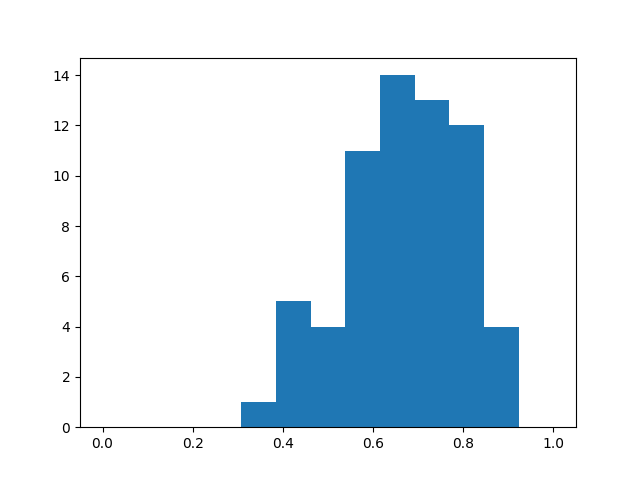
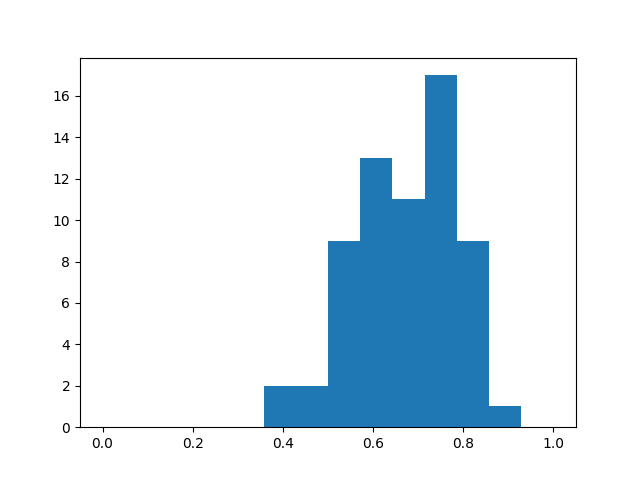
histograms for report

diff --git a/mnist/correlation/correlation.py b/mnist/correlation/correlation.py
@@ -64,11 +64,19 @@ def plot_and_save(corr, name):
 
 untrain = Corrcoef(train0, untrained)
 plot_and_save(untrain, 'untrain')
-del untrain
 train = Corrcoef(train0, train1)
 plot_and_save(train, 'train')
-del train
-untrain_rev = Corrcoef(untrained, train0)
+untrain_rev = Corrcoef(untrained, train1)
 plot_and_save(untrain_rev, 'untrain_rev')
-del untrain_rev
 
+for i in range(4):
+  layer = ['h_conv1', 'h_conv2', 'h_fc1', 'y_conv'][i]
+  unt = absmax(getattr(untrain_rev, layer))
+  trd = absmax(getattr(train, layer))
+  plt.hist(trd, bins='auto', range=(0, 1), color='#0000FF80', density=True)
+  plt.hist(unt, bins='auto', range=(0, 1), color='#FF000080', density=True)
+  plt.xlabel('correlation r')
+  plt.ylabel('proportion of neurons/Δr')
+  plt.title(['conv1', 'conv2', 'fc1', 'fc2'][i])
+  plt.savefig('paper_'+layer+'.png')
+  plt.clf()

diff --git a/mnist/linear/linear.py b/mnist/linear/linear.py
@@ -76,3 +76,17 @@ for net1 in networks:
         plt.savefig('multi_%s_%s_to_%s.png' % (layer, net1.name, net2.name))
         plt.clf()
 
+for i in range(4):
+  layer = layers[i]
+  unt = getattr(untrained, layer)
+  t0 = getattr(train0, layer)
+  t1 = getattr(train1, layer)
+  co_unt = corrcoef(unt, t1)
+  co_trd = corrcoef(t0, t1)
+  plt.hist(co_trd, bins='auto', range=(0, 1), color='#0000FF80', density=True)
+  plt.hist(co_unt, bins='auto', range=(0, 1), color='#FF000080', density=True)
+  plt.xlabel('correlation r')
+  plt.ylabel('proportion of neurons/Δr')
+  plt.title(['conv1', 'conv2', 'fc1', 'fc2'][i])
+  plt.savefig('paper_multi_'+layer+'.png')
+  plt.clf()
